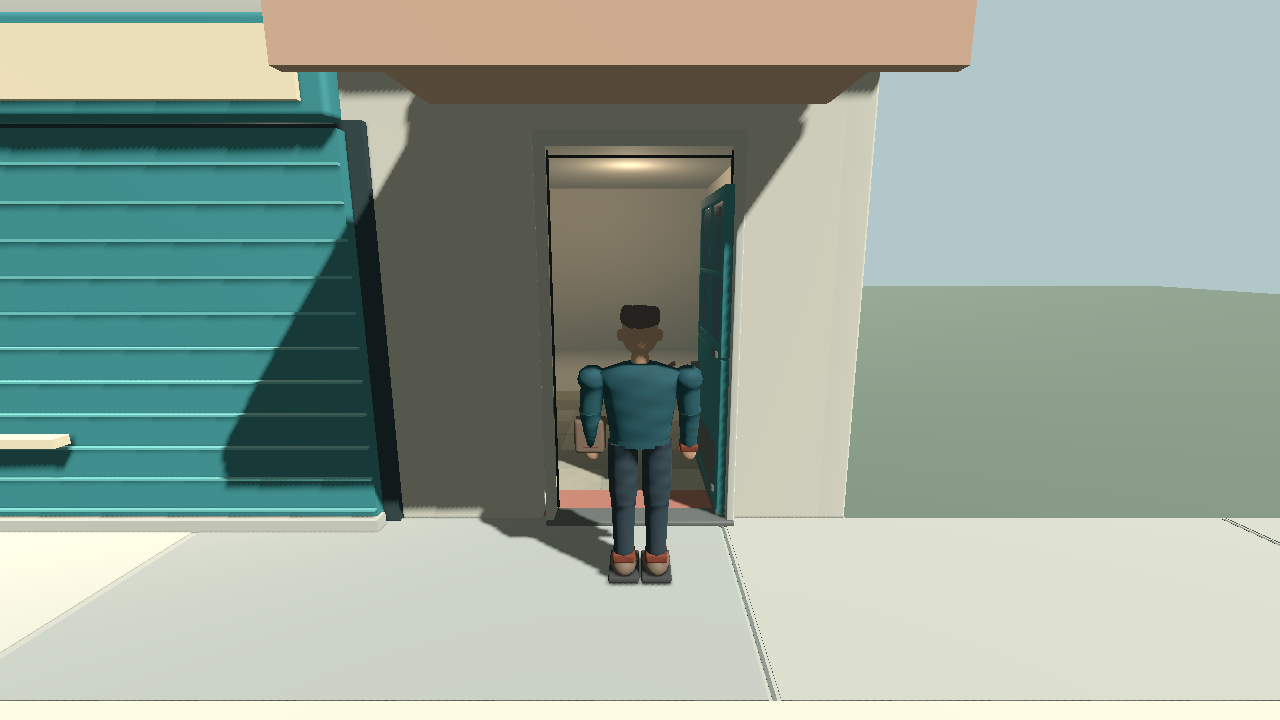
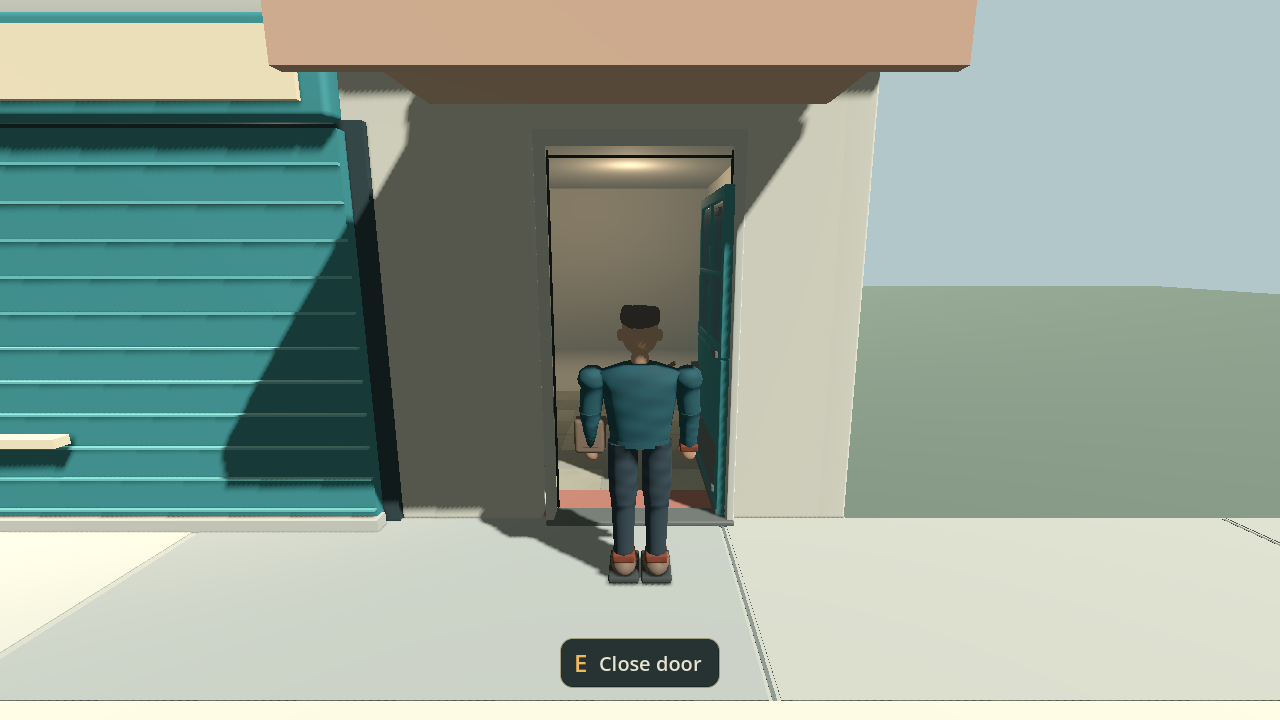
Show a focused interaction hint

Changed region(s): [[0.4375, 0.8861, 0.5625, 0.9778]]

diff --git a/docs/reviews/2026-11-12-first-block.md b/docs/reviews/2026-11-12-first-block.md
@@ -38,3 +38,5 @@ The character reads at the gameplay distance, but its shoulders, hands, and work
 The on-foot interaction ray closes and reopens the public door from the entry path.
 The same input turns on the shop fan switch, and the fan reached 3.27 rad/s after 60 physics ticks in the focused interaction run.
 The switch light and rocker show its state while the room stays loaded.
+The gameplay capture shows a bottom-centered action hint only while the player faces the door interaction area.
+Its text changes between opening and closing, and the switch text changes with fan state.
